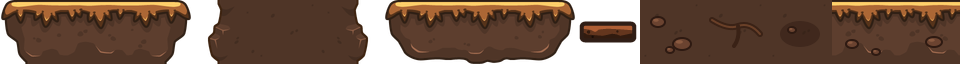
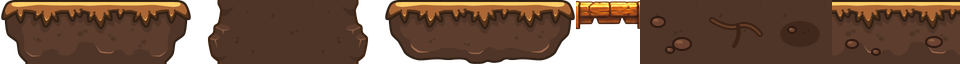
The Forgotten Village: the owner's pier, trees, fire bowls and mace
From the owner's bridges-fire sheet (prompt 12):
- the mill walkway is the owner's wooden pier: the deck is the Autumn
  world's bridge tile, and pier posts stand in the water under it
  (props can now be stacked up several rows);
- the owner's big and small autumn trees replace the pack's;
- stone fire bowls, glowing, either side of the Guardian Gate;
- the spiked iron ball is the Autumn world's mace.
The rope plank and the moving block are cut and ready, waiting for the
owner's choice of the Ruined Bridge's design.

Changed region(s): [[0.5938, 0.0, 0.6875, 0.6875]]

diff --git a/src/systems/adventure/AdventureScenery.js b/src/systems/adventure/AdventureScenery.js
@@ -9,12 +9,13 @@ import { PTERO_LOOKS } from '../../data/adventure/birds.js';
 //   waterfalls: { col, top, bottom, veil }: water pouring from a mossy lip at row `top` down to row
 //     `bottom`, in the middle of column col, flowing, with a splash at its foot. Behind the wheels;
 //     a veil is thin water in front of the cat instead, hiding what's behind it.
-//   props: { picture, col, row, hang, front, back, inGround, fromWater, width, spinMs, glow }: a picture
+//   props: { picture, col, row, hang, front, back, inGround, fromWater, width, stack, spinMs, glow }: a picture
 //     standing on the bottom
 //     of its cell (or, hang, hanging from its top), in the middle of column col. front: in front of
 //     the cat, as a cover. back: behind the ground, for big scenery (a house, a tree). inGround: in
 //     the earth, just in front of the ground (a boulder half-buried). fromWater: rising out of the
-//     water, behind the waterfalls (a cliff they pour from). width: shown
+//     water, behind the waterfalls (a cliff they pour from). stack: the picture repeated up `stack`
+//     rows tall, at its width (a pier's post, from the water up to the deck). width: shown
 //     this wide (px), if not its own size. spinMs: it turns round its middle, at the middle of its
 //     cell, once in this long (a mill's wheel turning as scenery). glow: a lantern's warm light round
 //     it, flickering, lighting the cave wall behind it (LANTERN_GLOW).
@@ -80,14 +81,16 @@ export class AdventureScenery {
         : scene.add.rectangle(x, y, w, TILE, CAVE.colour, CAVE.alpha);
       cave.setOrigin(0, 0).setDepth(DEPTH.cave);
     }
-    for (const { picture, col, row, hang, front, back, inWater, inGround, fromWater, width, spinMs, glow } of level.props ?? []) {
+    for (const { picture, col, row, hang, front, back, inWater, inGround, fromWater, width, stack, spinMs, glow } of level.props ?? []) {
       if (!has(picture)) continue;
       const x = col * TILE + TILE / 2;
-      const image = spinMs
+      const image = stack
+        ? scene.add.tileSprite(x, (row + 1) * TILE, scene.textures.get(art(picture)).getSourceImage().width, stack * TILE, art(picture)).setOrigin(0.5, 1)
+        : spinMs
         ? scene.add.image(x, row * TILE + TILE / 2, art(picture))
         : scene.add.image(x, hang ? row * TILE : (row + 1) * TILE, art(picture)).setOrigin(0.5, hang ? 0 : 1);
       image.setDepth(front ? DEPTH.front : inWater ? DEPTH.inWater : inGround ? DEPTH.inGround : fromWater ? DEPTH.fromWater : back ? DEPTH.behind : DEPTH.prop);
-      if (width) image.setScale(width / image.width);
+      if (width && !stack) image.setScale(width / image.width);
       if (spinMs) scene.tweens.add({ targets: image, angle: 360, duration: spinMs, repeat: -1 });
       if (glow) this.glowAround(image, hang);
       if (front) {

diff --git a/src/data/adventure/autumn1.js b/src/data/adventure/autumn1.js
@@ -176,6 +176,7 @@ export const AUTUMN_VILLAGE_LEVEL = {
     { col: 139, width: 3, top: 19, bottom: 32 }, // under the key's island, down to the meadow
   ],
   props: [
+    { picture: 'big-tree', col: 3, row: 26, back: true }, // behind the cottage
     { picture: 'cottage', col: 5, row: 26, back: true },
     { picture: 'lamp-post', col: 8, row: 26 },
     { picture: 'fence', col: 17, row: 26 },
@@ -186,8 +187,10 @@ export const AUTUMN_VILLAGE_LEVEL = {
     { picture: 'crystal-purple', col: 24, row: 31 },
     { picture: 'crystal-purple', col: 32, row: 29 },
     { picture: 'cliff', col: 50, row: 30, fromWater: true }, // the falls pour from its top
+    // The pier's posts, from the water up under the walkway's deck.
+    ...[35, 39, 47, 50, 57].map((col) => ({ picture: 'pier-post', col, row: 30, inWater: true, stack: 6 })),
     { picture: 'mill-wheel', col: 44, row: 27, back: true, width: 300, spinMs: 9000 },
-    { picture: 'tree-1', col: 62, row: 25, back: true },
+    { picture: 'big-tree', col: 62, row: 25, back: true },
     { picture: 'ruin-pillar', col: 69, row: 17, back: true },
     { picture: 'ruin-arch', col: 73, row: 17, back: true },
     { picture: 'mine-frame', col: 104, row: 31, width: 420, back: true }, // beams holding up the mine
@@ -202,9 +205,9 @@ export const AUTUMN_VILLAGE_LEVEL = {
     { picture: 'hang-lantern', col: 119, row: 34, hang: true, glow: true },
     { picture: 'crystal-blue', col: 123, row: 35 },
     { picture: 'crystal-purple', col: 114, row: 35 },
-    { picture: 'tree-1', col: 130, row: 31, back: true },
+    { picture: 'small-tree', col: 130, row: 31, back: true },
     { picture: 'lamp-post', col: 146, row: 25 },
-    { picture: 'tree-2', col: 153, row: 25, back: true },
+    { picture: 'big-tree', col: 152, row: 25, back: true },
     { picture: 'lamp-post', col: 166, row: 25 },
     // Stone stairs up the village's step, wooden posts along the ledges (one with a lit candle),
     // and boulders half-buried in the earth, as in the owner's picture.
@@ -245,8 +248,8 @@ export const AUTUMN_VILLAGE_LEVEL = {
     { picture: 'torch', col: 143, row: 25, width: 84, glow: true },
     { picture: 'fence', col: 150, row: 25 },
     { picture: 'sign-skull', col: 153, row: 25 },
-    { picture: 'torch', col: 171, row: 25, width: 84, glow: true },
-    { picture: 'torch', col: 177, row: 25, width: 84, glow: true },
+    { picture: 'fire-bowl', col: 171, row: 25, glow: true }, // the gate's fire bowls
+    { picture: 'fire-bowl', col: 177, row: 25, glow: true },
   ],
   // Places to start at while developing, with /adventure.html?at=<name> (systems/adventure/devPlaces.js).
   places: {

diff --git a/src/data/adventure/autumnArt.js b/src/data/adventure/autumnArt.js
@@ -15,6 +15,8 @@ export const AUTUMN_SHEETS = {
   'ruins-gate': [['ruin-arch', 'ruin-pillar'], ['guardian-gate', 'gate-door', 'cat-statue'], ['switch-off', 'switch-on', 'drawbridge']],
   'mine-secrets': [['mine-frame', 'minecart', 'mine-rail'], ['cracked', 'chunk-1', 'chunk-2', 'chunk-3'], ['vine'], ['crystal-purple', 'crystal-blue']],
   'cliff-stairs-posts': [['cliff', 'stairs-up-right', 'stairs-up-left'], ['post-cross', 'post-rope', 'stake-tall', 'stake-small', 'post-candle'], ['boulder-big', 'boulder-small']],
+  // The spiked ball is the Autumn world's mace (trap-mace); the pier deck becomes its bridge tile.
+  'bridges-fire': [['pier-deck', 'pier-post'], ['rope-plank', 'move-block', 'trap-mace'], ['fire-bowl', 'big-tree', 'small-tree']],
 };
 // The size (px) each piece is cut to, as it's shown in the game: its width, its height, or both.
 // The banners are cut at the pole's scale (withPole), so they hang from it at the size drawn.
@@ -31,7 +33,13 @@ export const AUTUMN_PIECES = {
   cliff: { height: 700 }, 'stairs-up-right': { height: 128 }, 'stairs-up-left': { height: 128 },
   'post-cross': { height: 70 }, 'post-rope': { height: 70 }, 'stake-tall': { height: 60 }, 'stake-small': { height: 42 }, 'post-candle': { height: 70 },
   'boulder-big': { width: 130 }, 'boulder-small': { width: 90 },
+  'pier-deck': { width: 136 }, 'pier-post': { width: 40 }, 'rope-plank': { width: 64 }, 'move-block': { width: 192 },
+  'trap-mace': { height: 84 }, 'fire-bowl': { height: 120 }, 'big-tree': { width: 440 }, 'small-tree': { width: 260 },
 };
+
+// The pier deck as the bridge tile (the strip's tenth, systems/adventureMap.js TILES.bridge): its
+// middle, `slice` px wide, at the top of the tile, so walkways and bridges are the owner's pier.
+export const PIER_TILE = { slice: 64 };
 
 // The Wood world's leaves and plants, turned from green to autumn's orange and gold.
 export const AUTUMN_FROM_WOOD = [

diff --git a/tests/adventure-autumn.test.js b/tests/adventure-autumn.test.js
@@ -25,7 +25,8 @@ describe('the Autumn Forest', () => {
   it('uses its own pictures, and borrows the rest from the Wood world', () => {
     expect(adventureArtWorld('autumn', 'tiles')).toBe('autumn');
     expect(adventureArtWorld('autumn', 'minigun')).toBe('wood');
-    expect(adventureArtKey('autumn', 'trap-mace')).toBe('adventure-wood-trap-mace');
+    expect(adventureArtKey('autumn', 'trap-crusher')).toBe('adventure-wood-trap-crusher');
+    expect(adventureArtKey('autumn', 'trap-mace')).toBe('adventure-autumn-trap-mace'); // the owner's spiked ball
     expect(adventureArtWorld('wood', 'tiles')).toBe('wood');
     // Nothing in its own list is something the Wood world must lend it: they'd be loaded twice.
     expect(new Set(ADVENTURE_ART.autumn).size).toBe(ADVENTURE_ART.autumn.length);

diff --git a/src/data/adventure/traps.js b/src/data/adventure/traps.js
@@ -117,5 +117,6 @@ export const TRAPS = {
     },
   },
 };
-// The Autumn Forest's traps are the Wood world's: the same maces, crushers and mushrooms.
-TRAPS.autumn = TRAPS.wood;
+// The Autumn Forest's traps are the Wood world's: the same crushers and mushrooms. Its mace is the
+// owner's spiked ball (data/adventure/autumnArt.js), with no ring on top: its middle is its middle.
+TRAPS.autumn = { ...TRAPS.wood, mace: { ...TRAPS.wood.mace, ballMiddle: 0.5 } };
